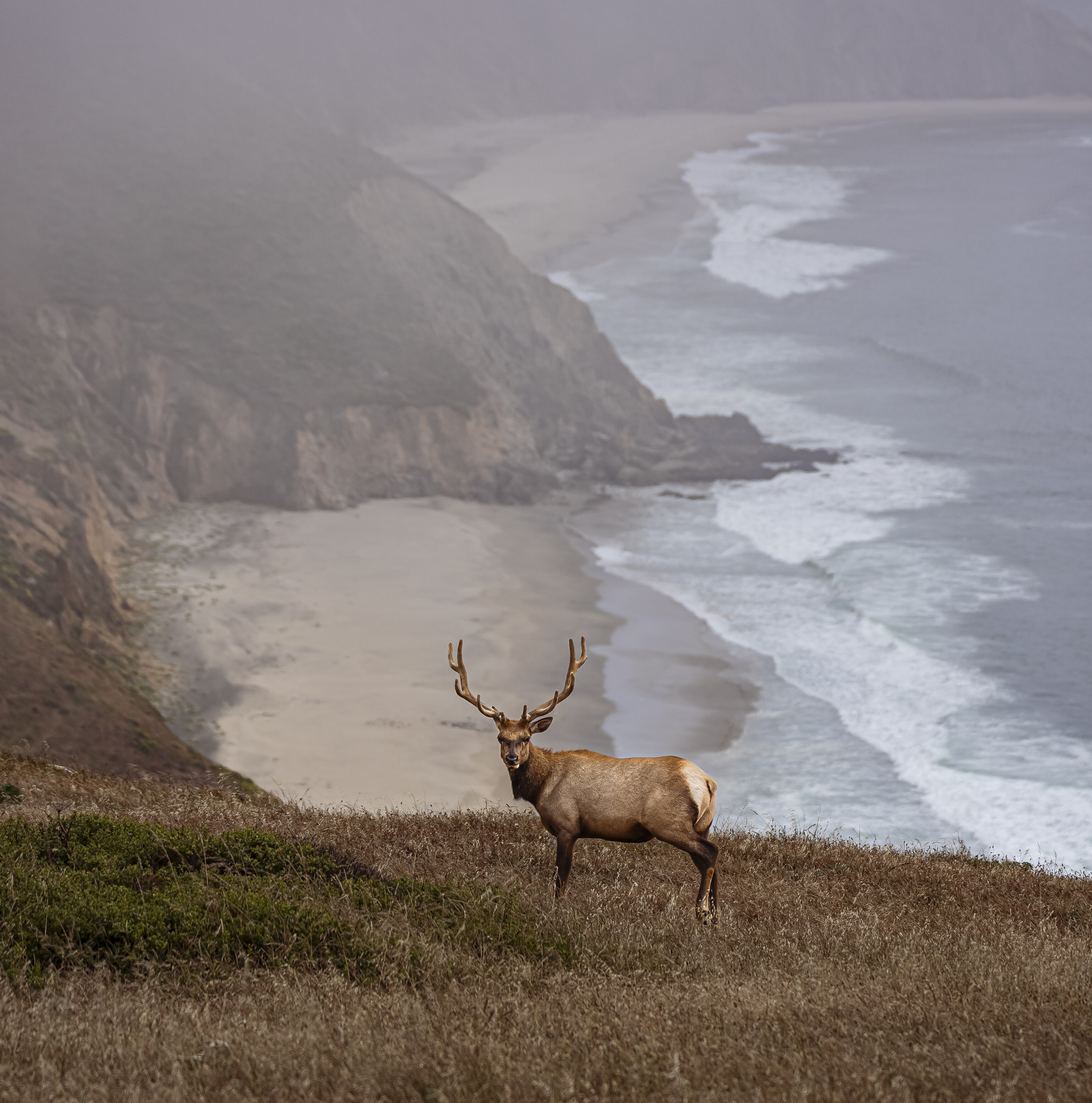
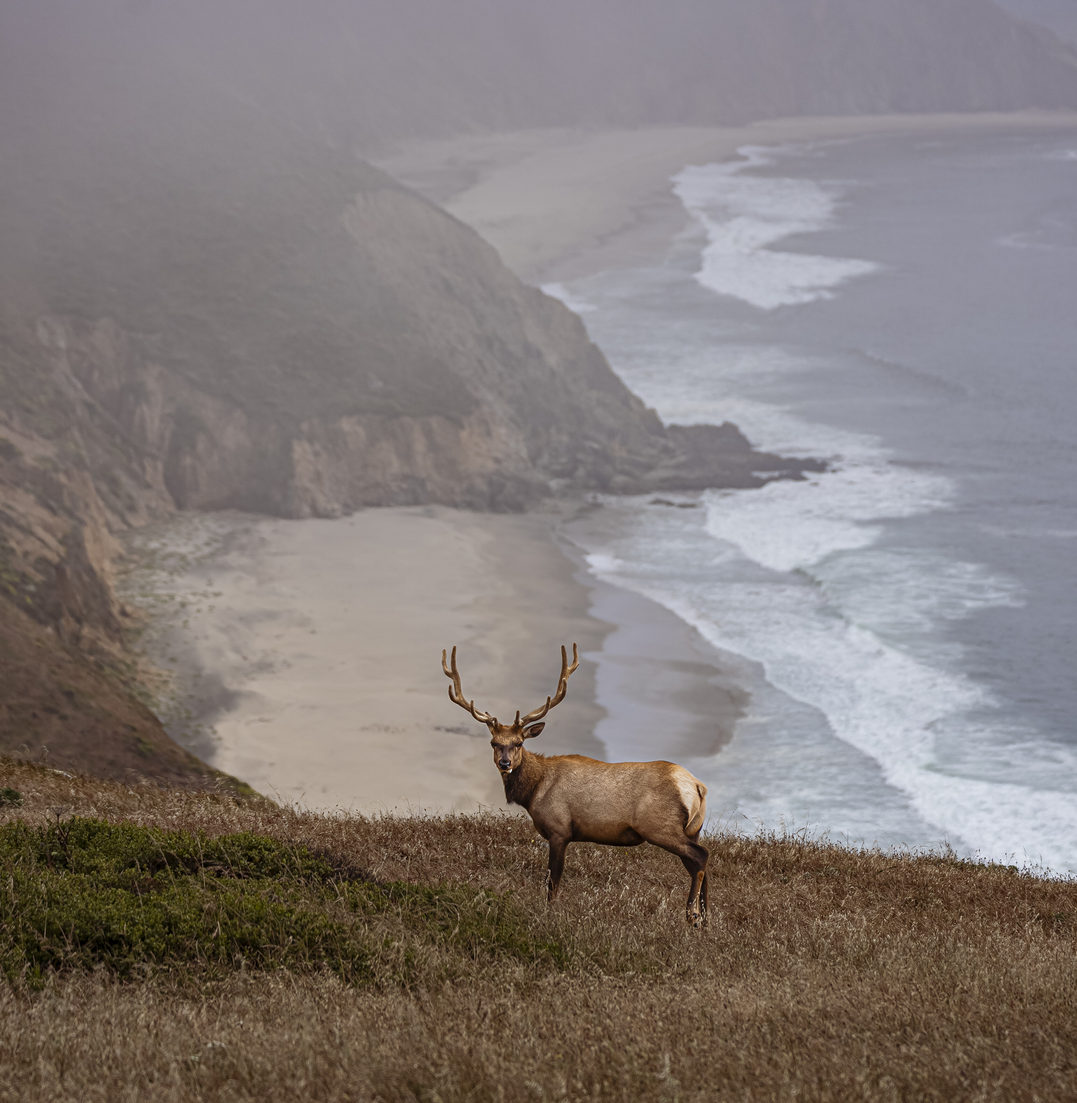
Update Tule Elk photo with new version
Regenerates 900px thumb and 1600px large; updates thumb dimensions in index.html (879x900).

diff --git a/index.html b/index.html
@@ -50,7 +50,7 @@
             <div class="gallery-grid">
                 <!-- COLOR PHOTOS -->
                 <div class="gallery-item portrait" data-type="color">
-                    <img src="images/thumbs/Tule-Elk.jpg" data-full="images/Tule-Elk.jpg" alt="Tule Elk" loading="lazy" srcset="images/thumbs/Tule-Elk.jpg 900w, images/large/Tule-Elk.jpg 1600w" sizes="(min-width: 768px) min(1000px, 100vw), 100vw" width="891" height="900">
+                    <img src="images/thumbs/Tule-Elk.jpg" data-full="images/Tule-Elk.jpg" alt="Tule Elk" loading="lazy" srcset="images/thumbs/Tule-Elk.jpg 900w, images/large/Tule-Elk.jpg 1600w" sizes="(min-width: 768px) min(1000px, 100vw), 100vw" width="879" height="900">
                     <div class="gallery-overlay">
                         <span class="photo-title">Tule Elk</span>
                         <span class="photo-location">Tomales Point, California</span>
